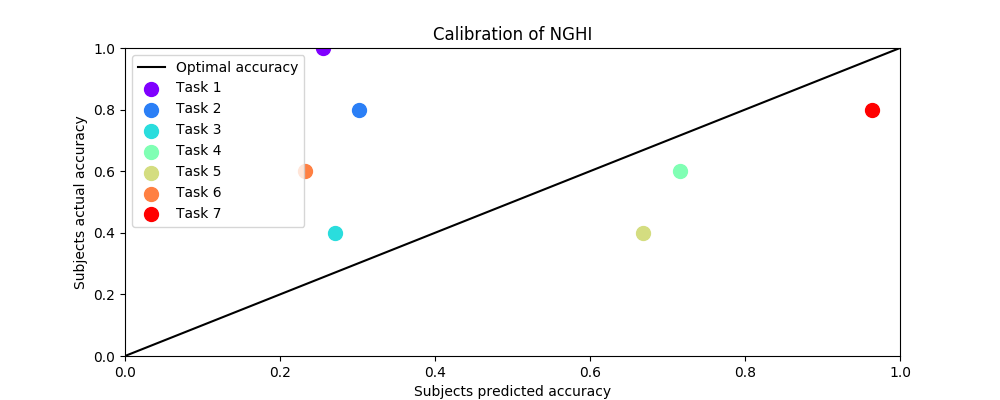
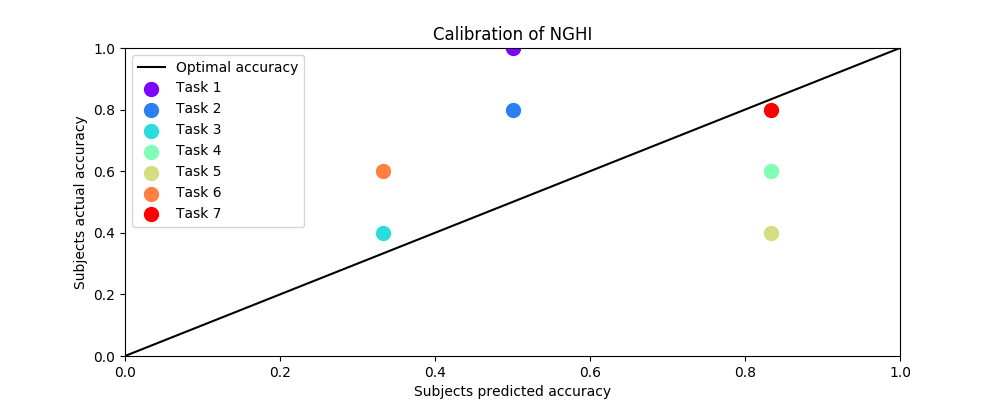
Updates; See TODOsgit status

diff --git a/src/calibration_evaluation.py b/src/calibration_evaluation.py
@@ -75,7 +75,8 @@ def calibration(subject_code):
     prob_matrix = np.copy(prob_matrix[1:, :])
 
     # Get the peak of every discrete confidence distribution per task
-    subject_predictions = np.max(prob_matrix, axis=1).reshape(-1, 1)
+    # TODO: Use expectation instead of max/argmax
+    subject_predictions = np.argmax(prob_matrix, axis=1).reshape(-1, 1)/6
 
     # Plot achieved percentage of points vs predictions
     plt.figure(figsize=(10, 4))
